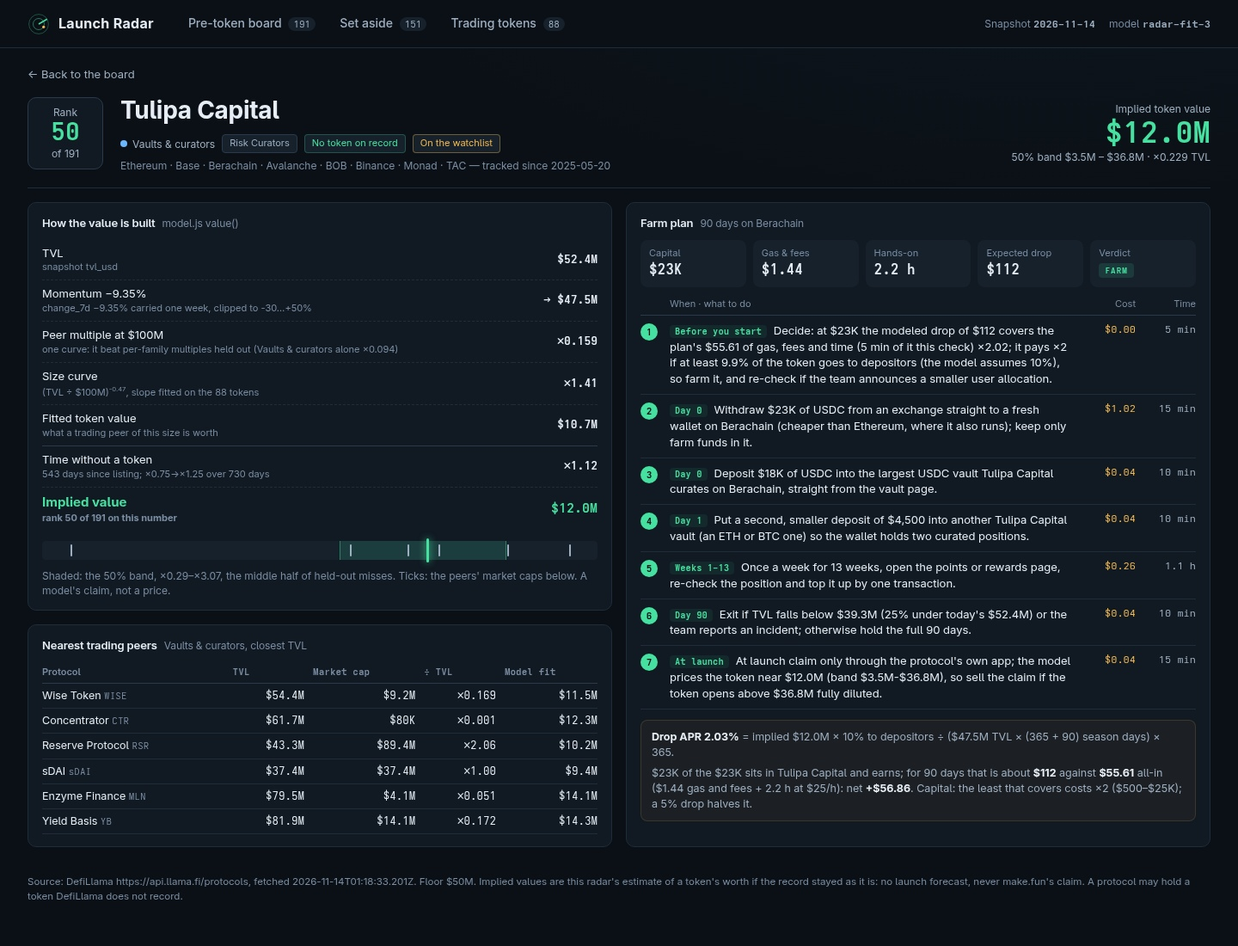
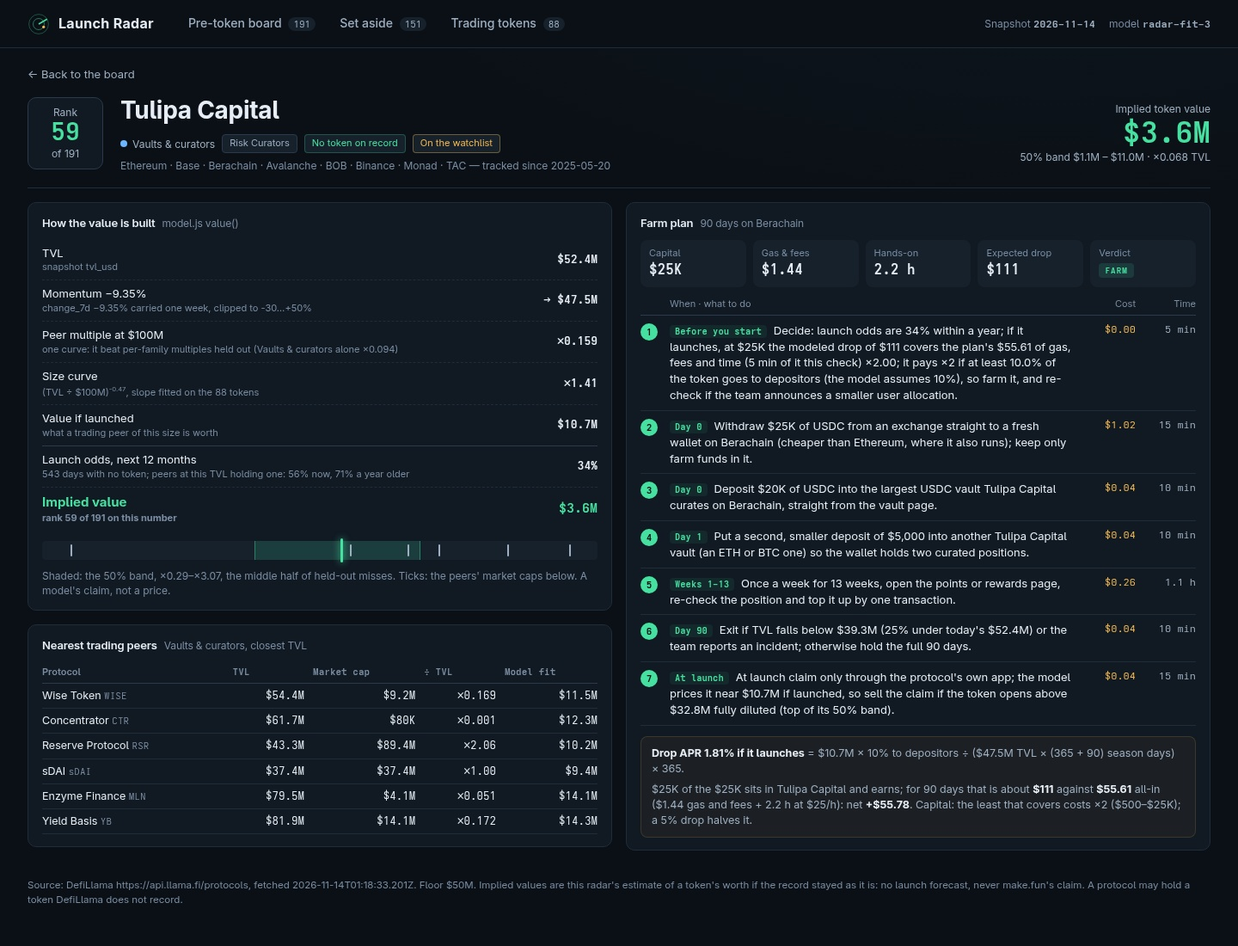
Launch odds: a hazard fitted on 437 peers by TVL and days listed (AUC leave-one-out and walk-forward) replaces the stated time factor; implied value = value if launched x 12-month odds; plans priced if it launches with the odds stated; data tables moved to lib/tables.json

diff --git a/dashboard/model.js b/dashboard/model.js
@@ -12,9 +12,7 @@
     shrink_options: [0, 1, 2, 4, 8, 16, 32, Infinity], // k: pseudo-peers pulling a family to the mean
     growth_floor: -30, // 7-day change used for momentum, clipped (per cent)
     growth_cap: 50,
-    age_full: 730, // days without a token for the full time factor
-    age_low: 0.75, // time factor at day 0
-    age_high: 1.25, // time factor at age_full and beyond
+    odds_days: 365, // launch odds are for a token within this many days
     drop_share: 0.10, // assumed share of supply sent to depositors, pro rata to TVL-days
     farm_days: 90, // the plan's holding window
     hour_usd: 25, // the reader's hands-on time, priced into every plan
@@ -22,25 +20,15 @@
     season_days: 365 // TVL-days older than this count as paid by earlier seasons
   };
 
-  // DefiLlama categories grouped into families.
-  var FAMILIES = [
-    ['vault', 'Vaults & curators', ['Risk Curators', 'Onchain Capital Allocator', 'Yield Aggregator', 'Yield', 'Liquidity Manager', 'Leveraged Farming', 'Farm', 'Indexes', 'Options Vault']],
-    ['lend', 'Lending & CDP', ['Lending', 'CDP', 'CDP Manager', 'Uncollateralized Lending', 'Collateral Markets', 'Collateral Management']],
-    ['dex', 'DEX & markets', ['Dexs', 'Launchpad', 'OTC Marketplace', 'NFT Marketplace', 'Token Locker']],
-    ['deriv', 'Derivatives', ['Derivatives', 'Options', 'Synthetics', 'Prediction Market', 'Interest Rate Derivatives']],
-    ['stable', 'Stables & basis', ['Basis Trading', 'Stablecoin Wrapper', 'Dual-Token Stablecoin', 'Algo-Stables', 'Stablecoin Issuer', 'Reserve Currency', 'CeDeFi', 'DOR']],
-    ['rwa', 'Real-world assets', ['RWA']],
-    ['stake', 'Staking & restaking', ['Liquid Staking', 'Liquid Restaking', 'Restaking', 'Staking Pool', 'Restaked BTC', 'Anchor BTC', 'Decentralized BTC']],
-    ['infra', 'Chains, bridges & infra', []]
-  ];
-  var FAM_OF = {};
-  FAMILIES.forEach(function (f) { f[2].forEach(function (c) { FAM_OF[c] = f[0]; }); });
+  // Data tables (category families, gas per chain, step wording) live in lib/tables.json: main.ts
+  // passes them here and writes them into data.js, so the page calls use() with the same tables.
+  var FAMILIES = [], FAM_OF = {}, GAS = {}, GAS0 = 0.3, ACT = {};
+  function use(t) {
+    FAMILIES = api.FAMILIES = t.families; GAS = t.gas; GAS0 = t.gas_default; ACT = t.act; FAM_OF = {};
+    FAMILIES.forEach(function (f) { f[2].forEach(function (c) { FAM_OF[c] = f[0]; }); });
+  }
   function family(p) { return FAM_OF[p.category] || 'infra'; }
-
-  // Typical cost of one transaction in USD, by chain; anything unlisted is costed at $0.30.
-  var GAS = {};
-  'Ethereum=3 Bitcoin=2.5 Tron=1.2 Binance=0.08 BSC=0.08 Arbitrum=0.05 Base=0.03 Optimism=0.04 Polygon=0.02 Solana=0.01 Avalanche=0.06 Sui=0.01 Aptos=0.01 Hyperliquid=0.02 Hyperliquid_L1=0.02 Sonic=0.02 Linea=0.05 Scroll=0.05 Blast=0.04 Mantle=0.03 Unichain=0.02 Ink=0.02 Katana=0.02 Plasma=0.01 Monad=0.01 Berachain=0.02 Stellar=0.01 Near=0.01 TON=0.03 Starknet=0.05 Zksync=0.05 zkSync_Era=0.05 Gnosis=0.01 Corn=0.02'.split(' ').forEach(function (kv) { kv = kv.split('='); GAS[kv[0].replace(/_/g, ' ')] = +kv[1]; });
-  function gas(chain) { return GAS[chain] != null ? GAS[chain] : 0.3; }
+  function gas(chain) { return GAS[chain] != null ? GAS[chain] : GAS0; }
 
   function clamp(x, lo, hi) { return Math.max(lo, Math.min(hi, x)); }
   function hasToken(p) { return p.gecko_id != null || p.symbol != null || p.mcap_usd != null; }
@@ -110,8 +98,45 @@
     return { k: best.k, trials: trials.map(function (t) { return { k: t.k, median: t.median }; }), slope: full.b, elasticity: 1 + full.b, base: Math.exp(full.all), families: full.fams, n: pts.length, points: pts,
       median_error: Math.exp(quantile(absMiss, 0.5)), band_low: Math.exp(q25), band_high: Math.exp(q75), band_hits: inBand,
       clipped: pts.filter(function (q) { var r = q.mcap / q.tvl; return r < M.ratio_floor || r > M.ratio_cap; }).length,
-      tests: termTests(pts, snap.as_of) };
+      tests: termTests(pts, snap.as_of), odds: launchOdds(snap) };
   }
+
+  /* Launch odds from the snapshot's peers. F(p, a) = the fitted share of protocols holding a token at
+   * this TVL and a days since listing (logistic on ln TVL and ln age, over every protocol that is not an
+   * exchange or a product). A protocol still without one at age a issues one within odds_days with
+   * probability q = (F(a + odds_days) - F(a)) / (1 - F(a)): the hazard implied by the age curve. Tested
+   * by AUC (0.5 = chance) leave-one-out and walk-forward (fit the 60% listed first, score the rest). */
+  function launchOdds(snap) {
+    var peers = snap.protocols.filter(function (p) { return p.tvl_usd > 0 && !productOf(p); });
+    var known = peers.map(function (p) { return ageDays(snap.as_of, p.listed_at); }).filter(function (a) { return a != null; }).sort(function (a, b) { return a - b; });
+    var mid = known[known.length >> 1];
+    var X = function (p, a) { return [1, Math.log(p.tvl_usd / M.ref_tvl), Math.log(1 + a / 365)]; };
+    var pts = peers.map(function (p) { var a = ageDays(snap.as_of, p.listed_at); return { p: p, a: a, x: X(p, a == null ? mid : a), y: p.gecko_id != null || p.symbol != null ? 1 : 0 }; });
+    function logit(T) {
+      var w = [0, 0, 0], it, i, j, k, t;
+      for (it = 0; it < 25; it++) {
+        var g = [0, 0, 0], H = [[0.01, 0, 0], [0, 0.01, 0], [0, 0, 0.01]];
+        T.forEach(function (q) { var pr = sig(dot(w, q.x)); for (i = 0; i < 3; i++) { g[i] += (q.y - pr) * q.x[i]; for (j = 0; j < 3; j++) H[i][j] += pr * (1 - pr) * q.x[i] * q.x[j]; } });
+        for (i = 0; i < 3; i++) for (k = 0; k < 3; k++) if (k !== i) { t = H[k][i] / H[i][i]; for (j = 0; j < 3; j++) H[k][j] -= t * H[i][j]; g[k] -= t * g[i]; }
+        for (i = 0; i < 3; i++) w[i] += g[i] / H[i][i];
+      }
+      return w;
+    }
+    function auc(T) {
+      var pos = T.filter(function (q) { return q.y; }), neg = T.filter(function (q) { return !q.y; }), c = 0;
+      pos.forEach(function (a) { neg.forEach(function (b) { c += a.s > b.s ? 1 : a.s === b.s ? 0.5 : 0; }); });
+      return c / (pos.length * neg.length);
+    }
+    var loo = pts.map(function (q, i) { return { y: q.y, s: dot(logit(pts.filter(function (o, j) { return j !== i; })), q.x) }; });
+    var dated = pts.filter(function (q) { return q.a != null; }).sort(function (u, v) { return v.a - u.a || bySlug(u.p, v.p); });
+    var cut = Math.floor(dated.length * 0.6), ww = logit(dated.slice(0, cut));
+    var wf = dated.slice(cut).map(function (q) { return { y: q.y, s: dot(ww, q.x) }; });
+    var w = logit(pts);
+    return { w: w, n: pts.length, with_token: pts.filter(function (q) { return q.y; }).length, auc_loo: auc(loo), auc_wf: auc(wf), wf_n: wf.length,
+      F: function (p, a) { return sig(dot(w, X(p, a))); } };
+  }
+  function sig(z) { return 1 / (1 + Math.exp(-z)); }
+  function dot(w, x) { return w[0] * x[0] + w[1] * x[1] + w[2] * x[2]; }
 
   /* Every value term tested held-out twice against real market caps: leave-one-out, and walk-forward
    * (fit the 60% listed first, score the rest). ok = the term lowers the median miss in both. */
@@ -201,15 +226,15 @@
     var sizeMult = Math.pow(tvlNext / M.ref_tvl, fit.slope);
     var fitted = tvlNext * fam.multiple * sizeMult;
     var age = ageDays(asOf, p.listed_at), ageUsed = age == null ? ageFallback : age;
-    var timeF = M.age_low + (M.age_high - M.age_low) * Math.min(ageUsed, M.age_full) / M.age_full;
+    var o = fit.odds, f0 = o.F(p, ageUsed), f1 = o.F(p, ageUsed + M.odds_days), timeF = (f1 - f0) / (1 - f0);
     var implied = Math.max(1, Math.round(fitted * timeF));
 
-    // Airdrop yield: a drop of drop_share of the implied value, split over every dollar-day of TVL in
-    // the current season (since listing, at most season_days) plus the plan's window.
-    var apr = implied * M.drop_share / (tvlNext * (Math.min(ageUsed, M.season_days) + M.farm_days)) * 365;
+    // Airdrop yield if it launches: drop_share of the value if launched, split over every dollar-day of
+    // TVL in the current season (since listing, at most season_days) plus the plan's window.
+    var apr = fitted * M.drop_share / (tvlNext * (Math.min(ageUsed, M.season_days) + M.farm_days)) * 365;
     return { family: fam.key, growth: growth, growth_imputed: p.change_7d == null, age_imputed: age == null, tvl_next: Math.round(tvlNext), fam_multiple: fam.multiple, size_mult: sizeMult,
-      fitted: Math.round(fitted), age: age, age_used: ageUsed, time_factor: timeF, implied: implied,
-      low: Math.round(implied * fit.band_low), high: Math.round(implied * fit.band_high), multiple: implied / p.tvl_usd, apr: apr };
+      fitted: Math.round(fitted), age: age, age_used: ageUsed, time_factor: timeF, f0: f0, f1: f1, implied: implied,
+      low: Math.round(implied * fit.band_low), high: Math.round(implied * fit.band_high), cap_high: Math.round(fitted * fit.band_high), multiple: implied / p.tvl_usd, apr: apr };
   }
 
   function usd(n) {
@@ -222,18 +247,6 @@
   }
   function mins(m) { return m < 60 ? m + ' min' : (m / 60).toFixed(m % 60 ? 1 : 0) + ' h'; }
 
-  // Each family's two actions: the main position and a second one that widens the wallet's footprint.
-  var ACT = {
-    vault: ['Deposit {S} of USDC into the largest USDC vault {N} curates on {C}, straight from the vault page', 'Put a second, smaller deposit of {s} into another {N} vault (an ETH or BTC one) so the wallet holds two curated positions'],
-    lend: ['Supply {S} of USDC to {N} on {C} and turn it on as collateral', 'Borrow {s} of a stablecoin against it and keep the health factor above 2.0: borrowing is the activity lenders usually reward most'],
-    dex: ['Add {S} to a stablecoin or ETH pair on {N} on {C}, with a wide range if the pool is concentrated', 'Make one swap of about {s} a week through {N} so the wallet logs volume as well as liquidity'],
-    deriv: ['Deposit {S} of USDC as margin on {N} on {C}', 'Each week open and close a small hedged trade of about {s} notional (long and short at 1-2x), fees near 0.05% a side'],
-    predict: ['Deposit {S} of USDC on {N} on {C} and hold it as the account balance', 'Each week buy and later sell about {s} of shares across two or three liquid markets, so the wallet logs trading volume'],
-    stable: ['Mint or deposit {S} into {N}\'s yield-bearing dollar on {C}', 'If {N}\'s app lists a pool or money market for the receipt, move {s} there (many points programs count it twice); if none, keep it all in step 2'],
-    rwa: ['Complete {N}\'s onboarding (KYC where it asks; review often takes 1-2 days) and subscribe {S} to its tokenized yield product on {C}', 'Hold the token in the wallet the issuer whitelisted; only if {N} names a market that takes it as collateral, post {s} there'],
-    stake: ['Stake {S} worth of the native asset through {N} on {C} and keep the liquid receipt', 'If {N} lists a DeFi pool that accepts the receipt, deposit {s} there so the stake counts twice; if none, hold the receipt'],
-    infra: ['Move {S} onto {C} through {N} (bridge, deposit or channel, whichever it offers) and keep it there', 'Use {s} of it in two other apps on {C} each week, so the wallet looks like a user, not a one-off deposit']
-  };
 
   // What the second action costs: one-off ones two transactions, weekly ones every week of the window.
   var WEEKLY = { dex: 1, deriv: 1, predict: 1, infra: 1 };
@@ -264,7 +277,7 @@
         { act: fill(act[1]), usd: ACT2[kind](side, tx, weeks), min: kind in WEEKLY ? weeks * 10 : 10, when: kind in WEEKLY ? 'Weeks 1-' + weeks : 'Day 1' },
         { act: 'Once a week for ' + weeks + ' weeks, open the points or rewards page, re-check the position and top it up by one transaction', usd: weeks * tx, min: weeks * 5, when: 'Weeks 1-' + weeks },
         { act: 'Exit if TVL falls below ' + usd(p.tvl_usd * 0.75) + ' (25% under today\'s ' + usd(p.tvl_usd) + ') or the team reports an incident; otherwise hold the full ' + M.farm_days + ' days', usd: 2 * tx, min: 10, when: 'Day ' + M.farm_days },
-        { act: 'At launch claim only through the protocol\'s own app; the model prices the token near ' + usd(v.implied) + ' (band ' + usd(v.low) + '-' + usd(v.high) + '), so sell the claim if the token opens above ' + usd(v.high) + ' fully diluted', usd: 2 * tx, min: 15, when: 'At launch' }
+        { act: 'At launch claim only through the protocol\'s own app; the model prices it near ' + usd(v.fitted) + ' if launched, so sell the claim if the token opens above ' + usd(v.cap_high) + ' fully diluted (top of its 50% band)', usd: 2 * tx, min: 15, when: 'At launch' }
       ];
     }
     function total(st) { var c = 0, t = 5; st.forEach(function (s) { c += s.usd; t += s.min; }); return { cost: c, min: t, all: c + t / 60 * M.hour_usd }; }
@@ -280,7 +293,7 @@
     var verdict = drop >= M.target_cover * t.all ? 'farm' : drop >= t.all ? 'marginal' : 'skip';
     // Every plan opens with its decision: the numbers, and the drop share at which it pays target_cover.
     var needShare = M.drop_share * M.target_cover * t.all / Math.max(drop, 1e-9);
-    st.unshift({ when: 'Before you start', usd: 0, min: 5, act: 'Decide: at ' + usd(capital) + ' the modeled drop of ' + usd(drop) + ' covers the plan\'s ' + usd(t.all) +
+    st.unshift({ when: 'Before you start', usd: 0, min: 5, act: 'Decide: launch odds are ' + Math.round(v.time_factor * 100) + '% within a year; if it launches, at ' + usd(capital) + ' the modeled drop of ' + usd(drop) + ' covers the plan\'s ' + usd(t.all) +
       ' of gas, fees and time (5 min of it this check) ×' + (drop / t.all).toFixed(2) + '; it pays ×' + M.target_cover + ' if at least ' + (needShare * 100).toFixed(1) +
       '% of the token goes to depositors (the model assumes ' + M.drop_share * 100 + '%), so ' + (verdict === 'farm' ? 'farm it, and re-check if the team announces a smaller user allocation' : verdict === 'skip' ? 'skip it unless the team announces a larger user allocation' : 'farm it only with funds already on ' + chain) });
     return { chain: chain, gas: tx, stake: capital, eligible: eligible(stake), asset: asset, steps: st, cost: t.cost, minutes: t.min, time_usd: t.min / 60 * M.hour_usd, all_in: t.all,
@@ -325,6 +338,6 @@
     });
   }
 
-  var api = { digest: digest, MODEL: M, productOf: productOf, FAMILIES: FAMILIES, family: family, calibrate: calibrate, value: value, farmPlan: farmPlan, stepText: stepText, build: build, boardRows: boardRows, usd: usd, mins: mins, gas: gas };
+  var api = { use: use, digest: digest, MODEL: M, productOf: productOf, FAMILIES: FAMILIES, family: family, calibrate: calibrate, value: value, farmPlan: farmPlan, stepText: stepText, build: build, boardRows: boardRows, usd: usd, mins: mins, gas: gas };
   if (typeof module === 'object' && module.exports) module.exports = api; else root.RadarModel = api;
 })(typeof globalThis !== 'undefined' ? globalThis : this);

diff --git a/dashboard/app.js b/dashboard/app.js
@@ -11,8 +11,9 @@
 (function () {
   'use strict';
   const R = window.RadarModel, S = window.SNAPSHOT, app = document.getElementById('app');
-  if (!R || !S) { app.innerHTML = '<p class="empty">No data: run main.ts to write data.js beside the page.</p>'; return; }
+  if (!R || !S || !window.TABLES) { app.innerHTML = '<p class="empty">No data: run main.ts to write data.js beside the page.</p>'; return; }
 
+  R.use(window.TABLES);
   const radar = R.build(S), fit = radar.fit, M = radar.model, rows = radar.rows, usd = R.usd;
   const FAM = {}; R.FAMILIES.forEach((f) => { FAM[f[0]] = f[1]; });
   const bySlug = Object.create(null); rows.forEach((r) => { bySlug[r.p.slug] = r; });
@@ -49,7 +50,7 @@
   /* ---------- filtering and sorting ---------- */
   const KEYS = {
     rank: (r) => r.rank, name: (r) => r.p.name.toLowerCase(), tvl: (r) => r.p.tvl_usd, g: (r) => r.p.change_7d,
-    age: (r) => r.v.age_used, value: (r) => r.v.implied, multiple: (r) => r.v.multiple, apr: (r) => r.v.apr, plan: (r) => r.plan.drop / r.plan.all_in
+    age: (r) => r.v.age_used, value: (r) => r.v.implied, odds: (r) => r.v.time_factor, apr: (r) => r.v.apr, plan: (r) => r.plan.drop / r.plan.all_in
   };
   function filtered(st) {
     const q = st.q.trim().toLowerCase(), fams = st.fam ? st.fam.split(',') : [];
@@ -108,15 +109,16 @@
     document.getElementById('meta').innerHTML = `<span>Snapshot <b>${esc(S.as_of)}</b></span><span>model <b>${esc(M.version)}</b></span>`;
   }
 
+  const O = fit.odds, pc = (x) => (x * 100).toFixed(0) + '%';
   function formula() {
     const T = fit.tests, x = (v) => '×' + v.toFixed(2);
-    const used = { flat: 'baseline', size: 'fitted', family: fit.k === Infinity ? 'dropped' : 'k=' + fit.k, growth: 'stated', age: 'stated' };
+    const used = { flat: 'baseline', size: 'fitted', family: fit.k === Infinity ? 'dropped' : 'k=' + fit.k, growth: 'stated', age: 'via odds' };
     return `<div class="card model">
       <h2>Value model <span>fitted on this snapshot's ${fit.n} trading tokens</span></h2>
-      <p class="eq">value = T × ${mult(fit.base)} × (T ÷ $100M)<sup>${fit.slope.toFixed(2)}</sup> × t<sub>age</sub></p>
+      <p class="eq">value = T × ${mult(fit.base)} × (T ÷ $100M)<sup>${fit.slope.toFixed(2)}</sup> × q<sub>12m</sub></p>
       <table class="mini tests"><thead><tr><th>Term · held-out median miss</th><th class="num">Leave-one-out</th><th class="num">Walk-forward</th><th class="num">Use</th></tr></thead><tbody>
       ${T.terms.map((t) => `<tr class="${t.ok ? 'pick' : ''}"><td>${t.label}</td><td class="num">${x(t.loo)}</td><td class="num">${x(t.wf)}</td><td class="num">${used[t.key]}</td></tr>`).join('')}</tbody></table>
-      <p class="note">Walk-forward fits the ${T.wf_train} tokens listed first and scores the ${T.wf_n} listed since ${T.wf_from}. Growth and age do not lower the miss on listed tokens, so they enter as stated pre-token terms: T = TVL carried a week at its 7-day change (${M.growth_floor}…+${M.growth_cap}%); t<sub>age</sub> ×${M.age_low}→×${M.age_high} over ${M.age_full} days with no token.</p></div>`;
+      <p class="note">Walk-forward fits the ${T.wf_train} tokens listed first and scores the ${T.wf_n} listed since ${T.wf_from}. T = TVL carried a week at its 7-day change (${M.growth_floor}…+${M.growth_cap}%), a stated term. Age enters through q<sub>12m</sub>, the odds of a token within a year: a hazard fitted on ${O.n} peers (${O.with_token} hold a token) by TVL and days listed, AUC ${O.auc_loo.toFixed(2)} leave-one-out and ${O.auc_wf.toFixed(2)} walk-forward (0.50 = chance).</p></div>`;
   }
 
   // The cover's self-checks, computed here on every load: the gate's rules and the screen-to-board match.
@@ -130,14 +132,14 @@
     [rows.every((r) => r.p.gecko_id == null && r.p.symbol == null && r.p.mcap_usd == null), `${rows.length}/${rows.length} ranked rows record no token`],
     [bRows.every((b) => b.farm_steps.length >= 3 && b.farm_steps.length <= 12 && b.farm_steps.every((t) => / Cost: .+ Time: /.test(t))), `${bRows.length}/${bRows.length} plans, every step costed and timed`],
     [B.digest === dig && B.rows === rows.length, `Screen = board.json: digest ${dig}, ${B.rows || 0} rows`],
+    [O.auc_loo > 0.5 && O.auc_wf > 0.5, `Launch odds beat chance in both held-out tests: AUC ${O.auc_loo.toFixed(2)}, ${O.auc_wf.toFixed(2)}`],
     [sizeT.ok, `Size curve beats a flat multiple in both held-out tests: ×${flatT.loo.toFixed(2)}→×${sizeT.loo.toFixed(2)}, ×${flatT.wf.toFixed(2)}→×${sizeT.wf.toFixed(2)}`]
   ];
 
   function board(st) {
     const shown = filtered(st), fams = st.fam ? st.fam.split(',') : [];
     const watchCov = S.watchlist.filter((s) => bySlug[s]).length;
-    const total = rows.reduce((s, r) => s + r.v.implied, 0);
-    const farmN = rows.filter((r) => r.plan.verdict === 'farm').length;
+        const farmN = rows.filter((r) => r.plan.verdict === 'farm').length;
     const mid = (f) => rows.map(f).sort((a, b) => a - b)[rows.length >> 1];
     const chains = {}; rows.forEach((r) => r.p.chains.forEach((c) => { chains[c] = (chains[c] || 0) + 1; }));
     const famCount = {}; rows.forEach((r) => { famCount[r.v.family] = (famCount[r.v.family] || 0) + 1; });
@@ -161,7 +163,7 @@
         <td class="num ${r.p.change_7d >= 0.05 ? 'up' : r.p.change_7d <= -0.05 ? 'down' : ''}">${pct(r.p.change_7d)}</td>
         <td class="num${r.v.age == null ? ' est' : ''}" title="${r.v.age == null ? 'No listing date: the median age is used' : 'Listed ' + esc(r.p.listed_at)}">${r.v.age == null ? '~' : ''}${days(r.v.age_used)}</td>
         <td class="val"><span class="bar"><i style="width:${w.toFixed(1)}%"></i></span><b>${usd(r.v.implied)}</b><small>${usd(r.v.low)}–${usd(r.v.high)}</small></td>
-        <td class="num">${mult(r.v.multiple)}</td>
+        <td class="num">${pc(r.v.time_factor)}</td>
         <td class="num apr">${(r.v.apr * 100).toFixed(1)}%</td>
         <td class="plan">${verdictTag(r.plan.verdict)} <span class="pmult">pays ${mult(r.plan.drop / r.plan.all_in)}</span><small>${usd(r.plan.drop)} drop vs ${usd(r.plan.all_in)} cost · ${usd(r.plan.stake)} on ${esc(r.plan.chain)}</small></td></tr>`;
     }).join('');
@@ -170,14 +172,14 @@
       <div><b>${rows.length}</b><span>pre-token ranked, ${rows.filter((r) => r.below).length} under $50M</span></div>
       <div><b>${radar.products.length} · ${fit.n}</b><span>set aside · trading (fit)</span></div>
       <div><b>×${sizeT.loo.toFixed(1)} · ×${sizeT.wf.toFixed(1)}</b><span>held-out miss, 2 tests</span></div>
-      <div><b>${usd(total)}</b><span>implied, all rows</span></div>
+      <div><b>${O.auc_loo.toFixed(2)} · ${O.auc_wf.toFixed(2)}</b><span>launch-odds AUC, 2 tests</span></div>
       <div><b>${bRows.length}/${rows.length}</b><span>plans costed and timed</span></div>
       <div><b>${farmN}</b><span>pay ×${M.target_cover} their costs</span></div>
       <div><b>${usd(mid((r) => r.plan.stake))} · ${R.mins(mid((r) => r.plan.minutes))}</b><span>median deposit · hands-on</span></div>
     </section>
     <section class="hero">
       <div class="lead">
-        <h1>${rows.length} pre-token protocols, ranked by what their token would be worth today</h1>
+        <h1>${rows.length} pre-token protocols, ranked by token value × launch odds</h1>
         <div class="card checks"><h2>Self-checks <span>run in this page on load</span></h2><ul>${CHECKS.map(([ok, t]) => `<li class="${ok ? 'ok' : 'bad'}">${ok ? '✓' : '✗'} ${t}</li>`).join('')}</ul></div>
       </div>
       ${formula()}
@@ -193,7 +195,7 @@
     </section>
     <section class="filters"><div class="chips" role="group" aria-label="Family">${famLinks}</div></section>
     <div class="tablewrap"><table class="board">
-      <thead><tr>${th('rank', 'Rank')}${th('name', 'Protocol')}<th>Family</th>${th('tvl', 'TVL', 'num')}${th('g', '7d', 'num')}${th('age', 'No token', 'num')}${th('value', 'Implied value · 50% band', 'val')}${th('multiple', '÷ TVL', 'num')}${th('apr', 'Drop APR', 'num')}${th('plan', 'Farm plan · 90 days', 'plan')}</tr></thead>
+      <thead><tr>${th('rank', 'Rank')}${th('name', 'Protocol')}<th>Family</th>${th('tvl', 'TVL', 'num')}${th('g', '7d', 'num')}${th('age', 'No token', 'num')}${th('value', 'Implied value · 50% band', 'val')}${th('odds', 'Odds 12m', 'num')}${th('apr', 'Drop APR', 'num')}${th('plan', 'Farm plan · 90 days', 'plan')}</tr></thead>
       <tbody>${body || '<tr><td colspan="10" class="empty">No protocol matches these filters.</td></tr>'}</tbody></table></div>`;
   }
 
@@ -222,8 +224,8 @@
             ${line('Momentum ' + pct(v.growth, 2), (v.growth_imputed ? 'change_7d not reported: 0% assumed' : 'change_7d ' + pct(p.change_7d, 2) + ' carried one week, clipped to ' + M.growth_floor + '…+' + M.growth_cap + '%'), '→ ' + usd(v.tvl_next))}
             ${line('Peer multiple at $100M', (fit.k === Infinity ? 'one curve: it beat per-family multiples held out' : 'family pull k=' + fit.k) + ' (' + esc(fam.label) + ' alone ' + mult(fam.raw) + ')', mult(v.fam_multiple))}
             ${line('Size curve', '(TVL ÷ $100M)<sup>' + fit.slope.toFixed(2) + '</sup>, slope fitted on the ' + fit.n + ' tokens', mult(v.size_mult))}
-            ${line('Fitted token value', 'what a trading peer of this size is worth', usd(v.fitted), 'sum')}
-            ${line('Time without a token', (v.age == null ? 'no listing date: median ' + v.age_used + ' days used' : v.age + ' days since listing') + '; ×' + M.age_low + '→×' + M.age_high + ' over ' + M.age_full + ' days', mult(v.time_factor))}
+            ${line('Value if launched', 'what a trading peer of this size is worth', usd(v.fitted), 'sum')}
+            ${line('Launch odds, next 12 months', (v.age == null ? 'no listing date: median ' + v.age_used + ' days' : v.age + ' days') + ' with no token; peers at this TVL holding one: ' + pc(v.f0) + ' now, ' + pc(v.f1) + ' a year older', pc(v.time_factor))}
             ${line('Implied value', 'rank ' + r.rank + ' of ' + rows.length + ' on this number', usd(v.implied), 'total')}
           </table>
           <div class="scale">
@@ -249,7 +251,7 @@
         <div class="steph"><span></span><span>When · what to do</span><span>Cost</span><span>Time</span></div>
         <ol class="steps">${pl.steps.map((s) => `<li><p><em>${esc(s.when)}</em>${esc(s.act)}.</p><span class="cost">${usd(s.usd)}</span><span class="time">${R.mins(s.min)}</span></li>`).join('')}</ol>
         <div class="math">
-          <p><b>Drop APR ${(v.apr * 100).toFixed(2)}%</b> = implied ${usd(v.implied)} × ${M.drop_share * 100}% to depositors ÷ (${usd(v.tvl_next)} TVL × (${Math.min(v.age_used, M.season_days)} + ${M.farm_days}) season days) × 365.</p>
+          <p><b>Drop APR ${(v.apr * 100).toFixed(2)}% if it launches</b> = ${usd(v.fitted)} × ${M.drop_share * 100}% to depositors ÷ (${usd(v.tvl_next)} TVL × (${Math.min(v.age_used, M.season_days)} + ${M.farm_days}) season days) × 365.</p>
           <p>${usd(pl.eligible)} of the ${usd(pl.stake)} sits in ${esc(p.name)} and earns; for ${pl.days} days that is about <b>${usd(pl.drop)}</b> against <b>${usd(pl.all_in)}</b> all-in (${usd(pl.cost)} gas and fees + ${R.mins(pl.minutes)} at $${M.hour_usd}/h): net <b class="${pl.net >= 0 ? 'up' : 'down'}">${pl.net >= 0 ? '+' : '−'}${usd(Math.abs(pl.net))}</b>. Capital: ${st.dep ? 'your deposit' : `the least that covers costs ×${M.target_cover} ($500–$25K${pl.drop < M.target_cover * pl.all_in ? ', capped' : ''})`}; a ${M.drop_share * 50}% drop halves it.</p>
         </div>
       </section>

diff --git a/main.ts b/main.ts
@@ -29,7 +29,11 @@ const Radar = createRequire(import.meta.url)('./dashboard/model.js') as {
   build(s: Snapshot): { rows: unknown[]; products: unknown[]; live: unknown[]; fit: { slope: number; n: number } };
   boardRows(r: unknown): Row[];
   digest(rows: Row[]): string;
+  use(tables: unknown): void;
 };
+// The model's data tables (category families, gas per chain, step wording), shared with the page.
+const tables = JSON.parse(readFileSync(join(here, 'lib', 'tables.json'), 'utf8'));
+Radar.use(tables);
 
 function arg(name: string, fallback: string): string {
   const at = process.argv.indexOf(`--${name}`);
@@ -93,7 +97,7 @@ if (issue !== null) fail(`the board breaks a gate rule: ${issue}`);
 mkdirSync(out, { recursive: true });
 writeFileSync(join(out, 'board.json'), `${JSON.stringify({ as_of: snapshot.as_of, source: snapshot.source, model: 'dashboard/model.js', rows })}\n`);
 // The board's digest goes beside the data: the page recomputes it from its own rows and shows the match.
-writeFileSync(join(out, 'data.js'), `window.SNAPSHOT=${JSON.stringify(snapshot)};\nwindow.BOARD=${JSON.stringify({ rows: rows.length, digest: Radar.digest(rows) })};\n`);
+writeFileSync(join(out, 'data.js'), `window.SNAPSHOT=${JSON.stringify(snapshot)};\nwindow.BOARD=${JSON.stringify({ rows: rows.length, digest: Radar.digest(rows) })};\nwindow.TABLES=${JSON.stringify(tables)};\n`);
 
 function copyFiles(from: string, to: string): string[] {
   mkdirSync(to, { recursive: true });
